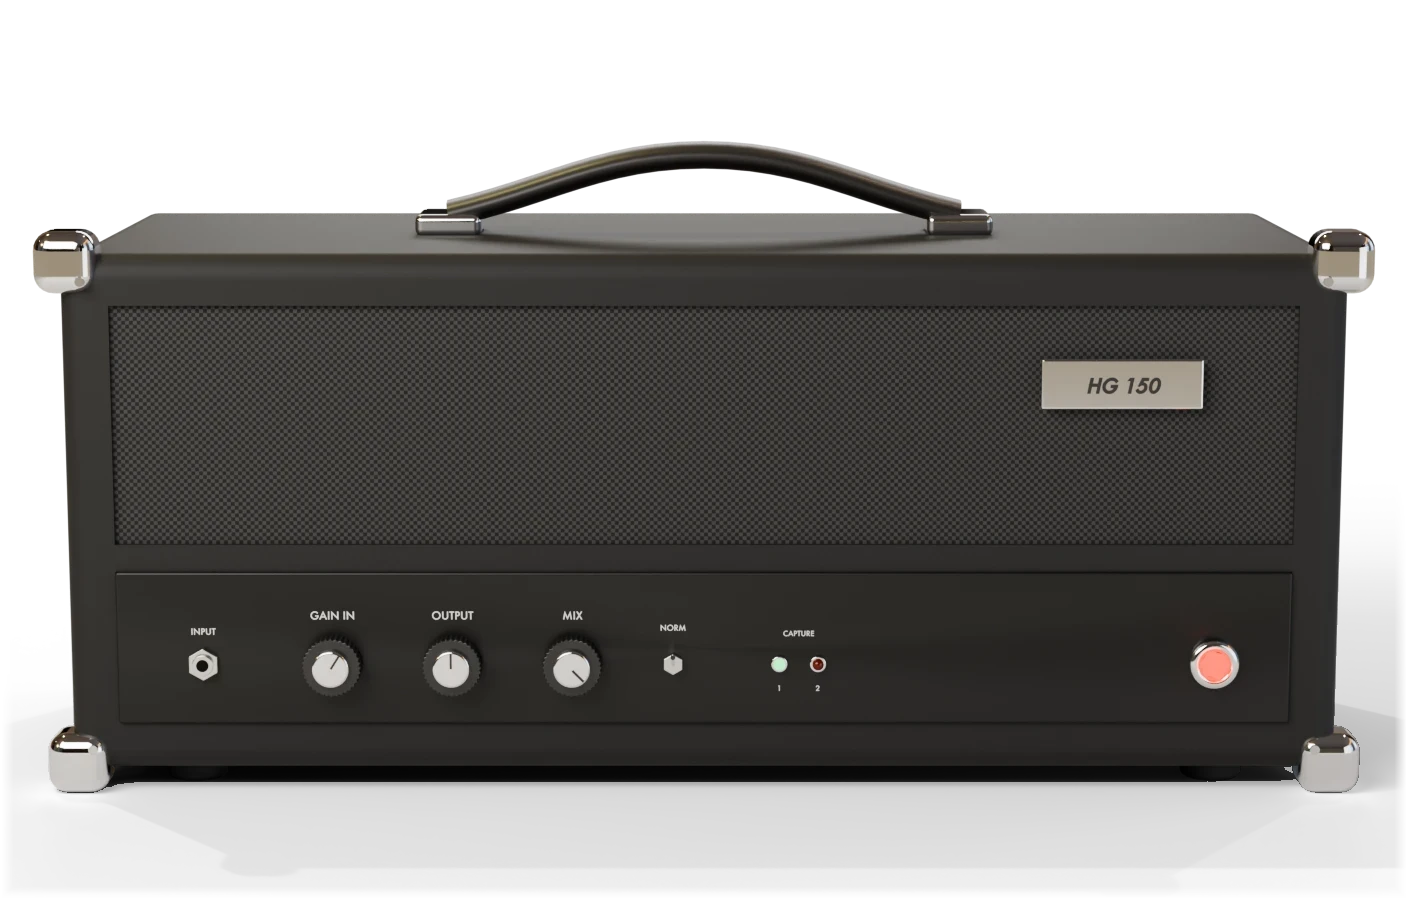
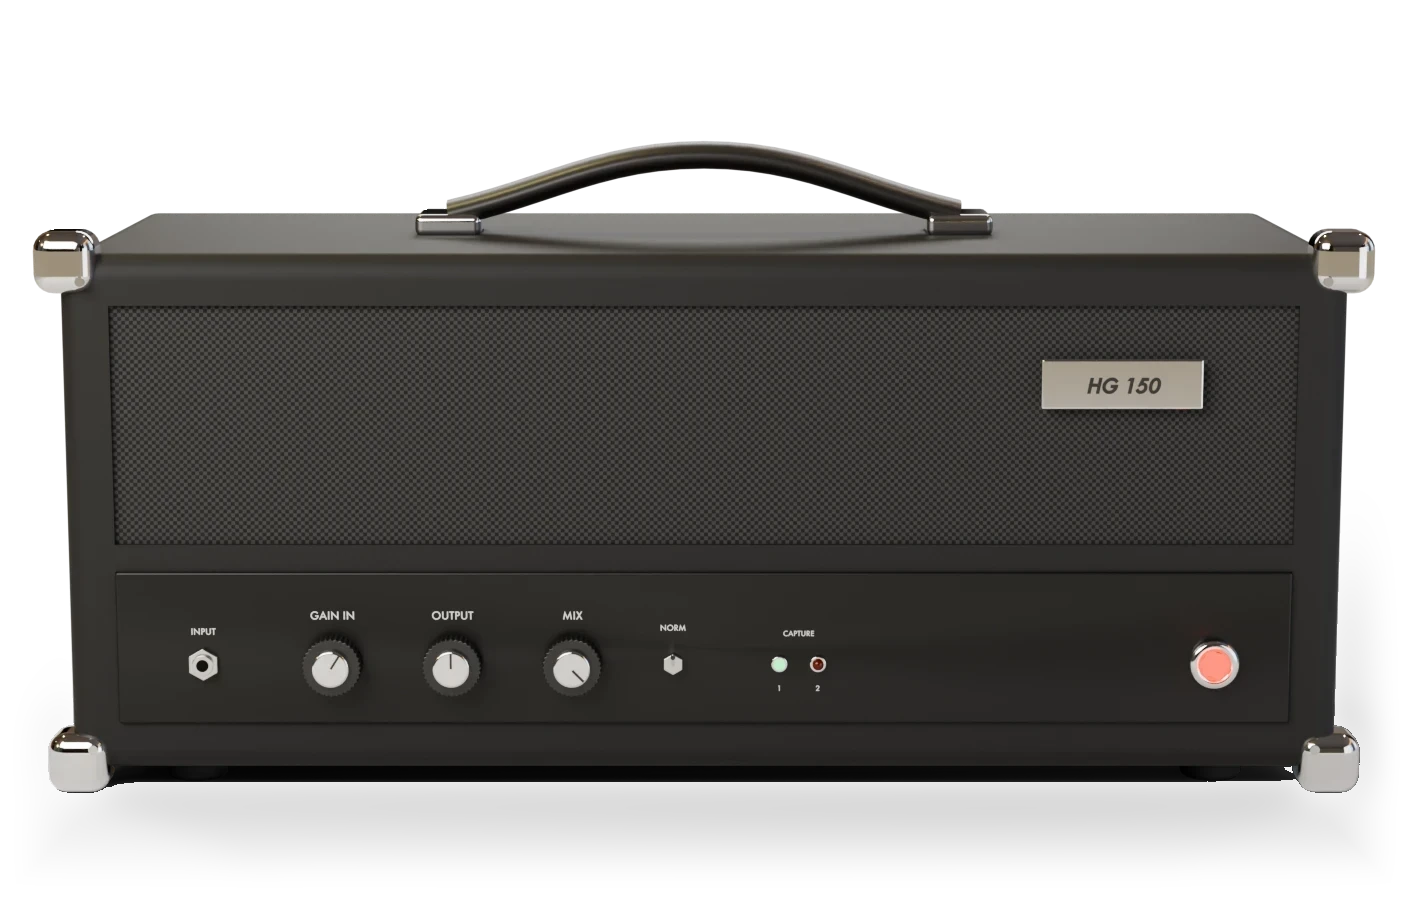
Soften floor shadows so the frame never cuts them
The renders' floor shadows ended in hard lines: the shadow catcher's edge,
and the frame edge where only the last 12 px faded. The shadow is now
blurred by 3% of the body's short side and fades out over 10% of it before
the frame. The gear itself is unchanged. The render script does the same
for future renders.

Claude-Session: https://claude.ai/code/session_01EtvSfWhrHz2E1F5C6uZwFK

Changed region(s): [[0.0625, 0.84, 0.9062, 0.9022], [0.9375, 0.6844, 1.0, 0.9022]]

diff --git a/tools/render/common.py b/tools/render/common.py
@@ -33,6 +33,11 @@ EDGE_FADE = 12
 SHADOW_SCALE = 0.4
 SHADOW_MAX_ALPHA = 0.85
 SHADOW_MAX_RGB = 0.08
+# The floor shadow is then blurred by SHADOW_BLUR of the body's short side, so that the edge of the
+# shadow catcher reads as a soft falloff, and it fades out over SHADOW_EDGE of the short side
+# before the frame edge, so that the frame never cuts it.
+SHADOW_BLUR = 0.03
+SHADOW_EDGE = 0.10
 # The body is trimmed to what has alpha above TRIM_ALPHA, plus TRIM_PAD px.
 TRIM_ALPHA = 8.0 / 255.0
 TRIM_PAD = 24
@@ -138,6 +143,7 @@ def clean_body(path):
     ys = np.arange(ch, dtype=np.float32)[:, None]
     xs = np.arange(cw, dtype=np.float32)[None, :]
     edge = np.minimum(np.minimum(xs, cw - 1 - xs), np.minimum(ys, ch - 1 - ys))
+    px = soften_shadow(px, edge)
     # The outer 2 px are fully clear, then alpha ramps up over EDGE_FADE px.
     px[..., 3] *= np.clip((edge - 1.0) / EDGE_FADE, 0.0, 1.0)
     bpy.data.images.remove(img)
@@ -149,6 +155,34 @@ def clean_body(path):
     out.save()
     bpy.data.images.remove(out)
     return left, top, cw, ch
+
+
+def box_blur(img, radius, axis):
+    pad = [(0, 0), (0, 0)]
+    pad[axis] = (radius + 1, radius)
+    summed = np.cumsum(np.pad(img, pad, mode="edge"), axis=axis)
+    n = img.shape[axis]
+    hi = np.take(summed, np.arange(2 * radius + 1, 2 * radius + 1 + n), axis=axis)
+    lo = np.take(summed, np.arange(0, n), axis=axis)
+    return (hi - lo) / (2 * radius + 1)
+
+
+def soften_shadow(px, edge):
+    """Blurs the black floor shadow and fades it out before the frame edge; the gear is kept."""
+    a = px[..., 3]
+    shadow = (a < SHADOW_MAX_ALPHA) & (px[..., :3].max(axis=2) < SHADOW_MAX_RGB)
+    short = min(px.shape[0], px.shape[1])
+    soft = np.where(shadow, a, 0.0)
+    radius = max(1, int(SHADOW_BLUR * short * 0.58))
+    # Three box passes approximate a Gaussian of SHADOW_BLUR * short.
+    for _ in range(3):
+        soft = box_blur(box_blur(soft, radius, 0), radius, 1)
+    t = np.clip((edge - 1.0) / (SHADOW_EDGE * short), 0.0, 1.0)
+    soft *= t * t * (3.0 - 2.0 * t)
+    gear = np.where(shadow, 0.0, a)
+    px[..., :3] = np.where(shadow[..., None], 0.0, px[..., :3])
+    px[..., 3] = gear + (1.0 - gear) * soft
+    return px
 
 
 def feather(path):

diff --git a/crates/ui/tests/skins.rs b/crates/ui/tests/skins.rs
@@ -224,3 +224,30 @@ fn floor_shadows_stay_faint_on_the_light_stage() {
         );
     }
 }
+
+#[test]
+fn floor_shadows_fade_out_before_the_frame_edge() {
+    for family in FAMILIES {
+        let id = family.skin_id().unwrap();
+        let body = skins::body_image(id).unwrap();
+        let [w, h] = body.size;
+        let band = (w.min(h) as f32 * 0.02) as usize;
+        let mut strongest = 0;
+        for y in 0..h {
+            for x in 0..w {
+                let near_edge = x < band || y < band || x >= w - band || y >= h - band;
+                // Shadow pixels are black; the colour is read unmultiplied so that a dark,
+                // half-covered edge of the gear itself is not taken for shadow.
+                let [r, g, b, a] = body.pixels[y * w + x].to_srgba_unmultiplied();
+                let is_shadow = a < 200 && r.max(g).max(b) < 4;
+                if near_edge && is_shadow {
+                    strongest = strongest.max(a);
+                }
+            }
+        }
+        assert!(
+            strongest <= 32,
+            "{id} has a floor shadow of alpha {strongest} at its frame edge"
+        );
+    }
+}
